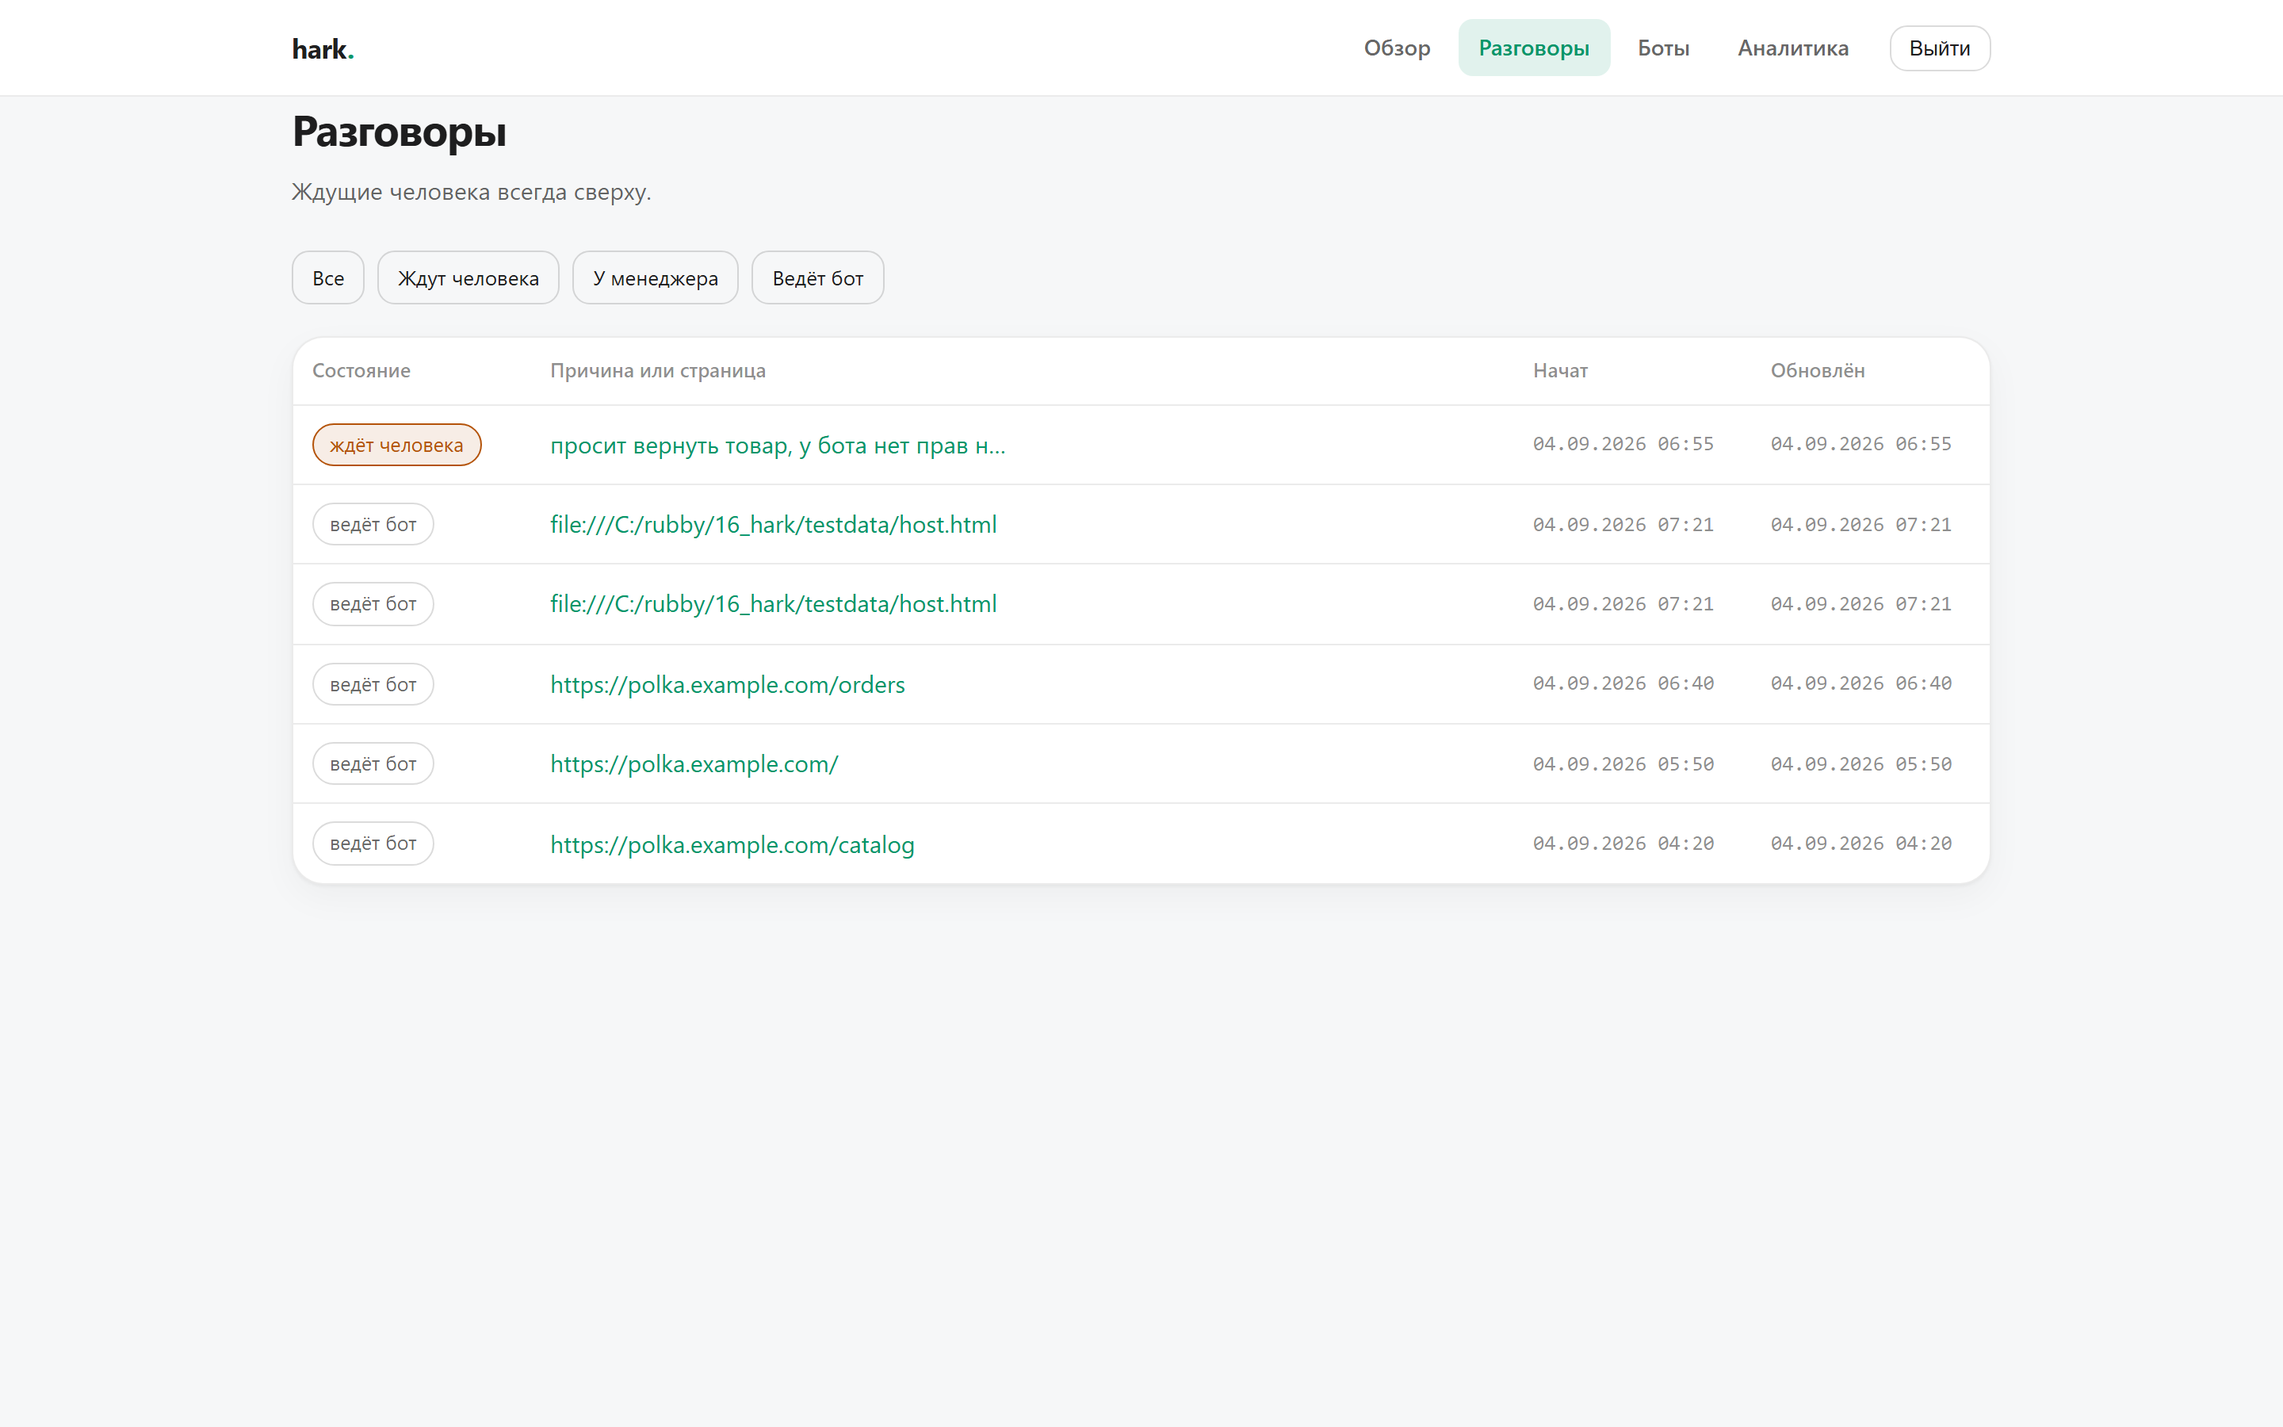
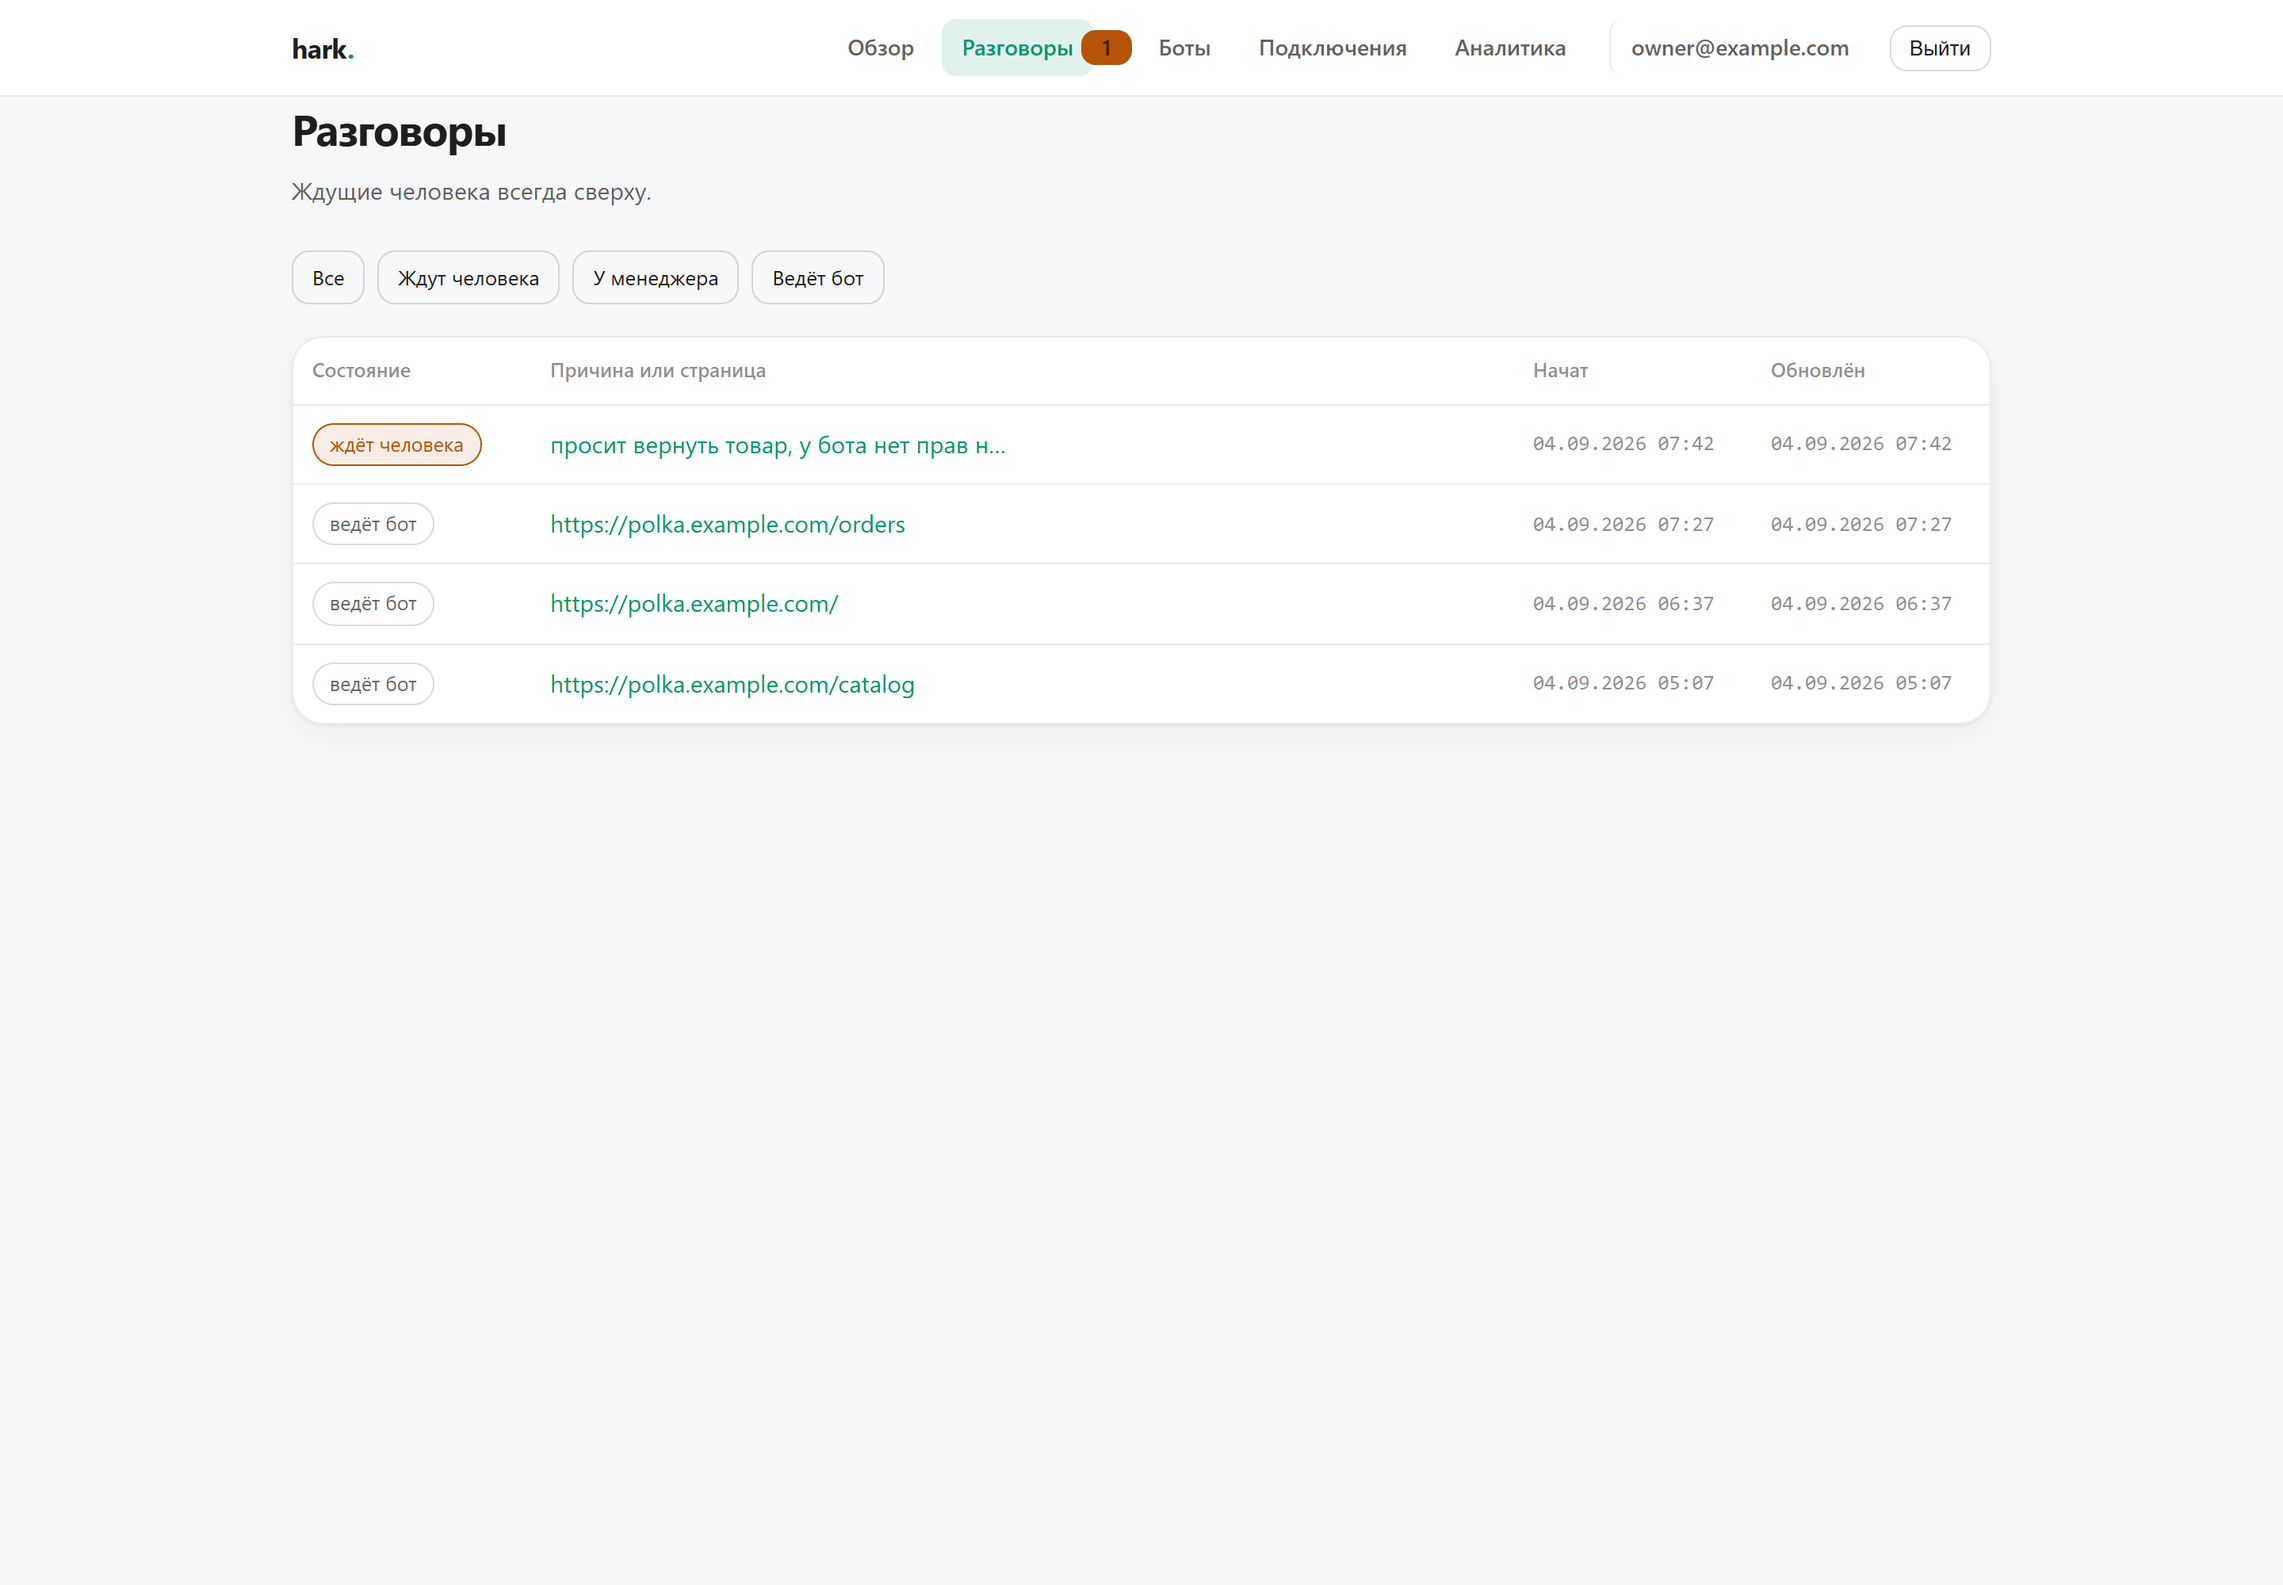
Обновить снимки под новую админку
Снимок 02-bot показывал единую форму бота, которой больше нет: пробу
модели теперь видно на вкладке «Модель». README ссылается на 11-model,
старый файл убран.

Остальные экраны переснял из-за отступов: margin-bottom переехал на сам
.card, и на прежних снимках карточки стоят иначе, чем в живой админке.

diff --git a/README.de.md b/README.de.md
@@ -22,7 +22,7 @@ Die Anbieter sind sich uneinig darüber, was sie annehmen, und diese Uneinigkeit
 
 Also fragt Hark nach. Ein Knopf schickt einige winzige Anfragen und hält fest, was zurückkam:
 
-![Einstellungen nach der Prüfung](screenshots/02-bot.png)
+![Einstellungen nach der Prüfung](screenshots/11-model.png)
 
 Danach zeigen die Einstellungen nur noch die Regler, die dieses Modell wirklich annimmt. Nichts anderes wird angeboten, nichts Abgelehntes je gesendet.
 

diff --git a/README.md b/README.md
@@ -22,7 +22,7 @@ Providers disagree about what they accept, and the disagreement is not in the do
 
 So Hark asks. One button sends a few tiny requests and records what came back:
 
-![Model settings driven by the probe](screenshots/02-bot.png)
+![Model settings driven by the probe](screenshots/11-model.png)
 
 The settings then show only the knobs that model actually takes. Nothing else is offered, and nothing rejected is ever sent.
 
